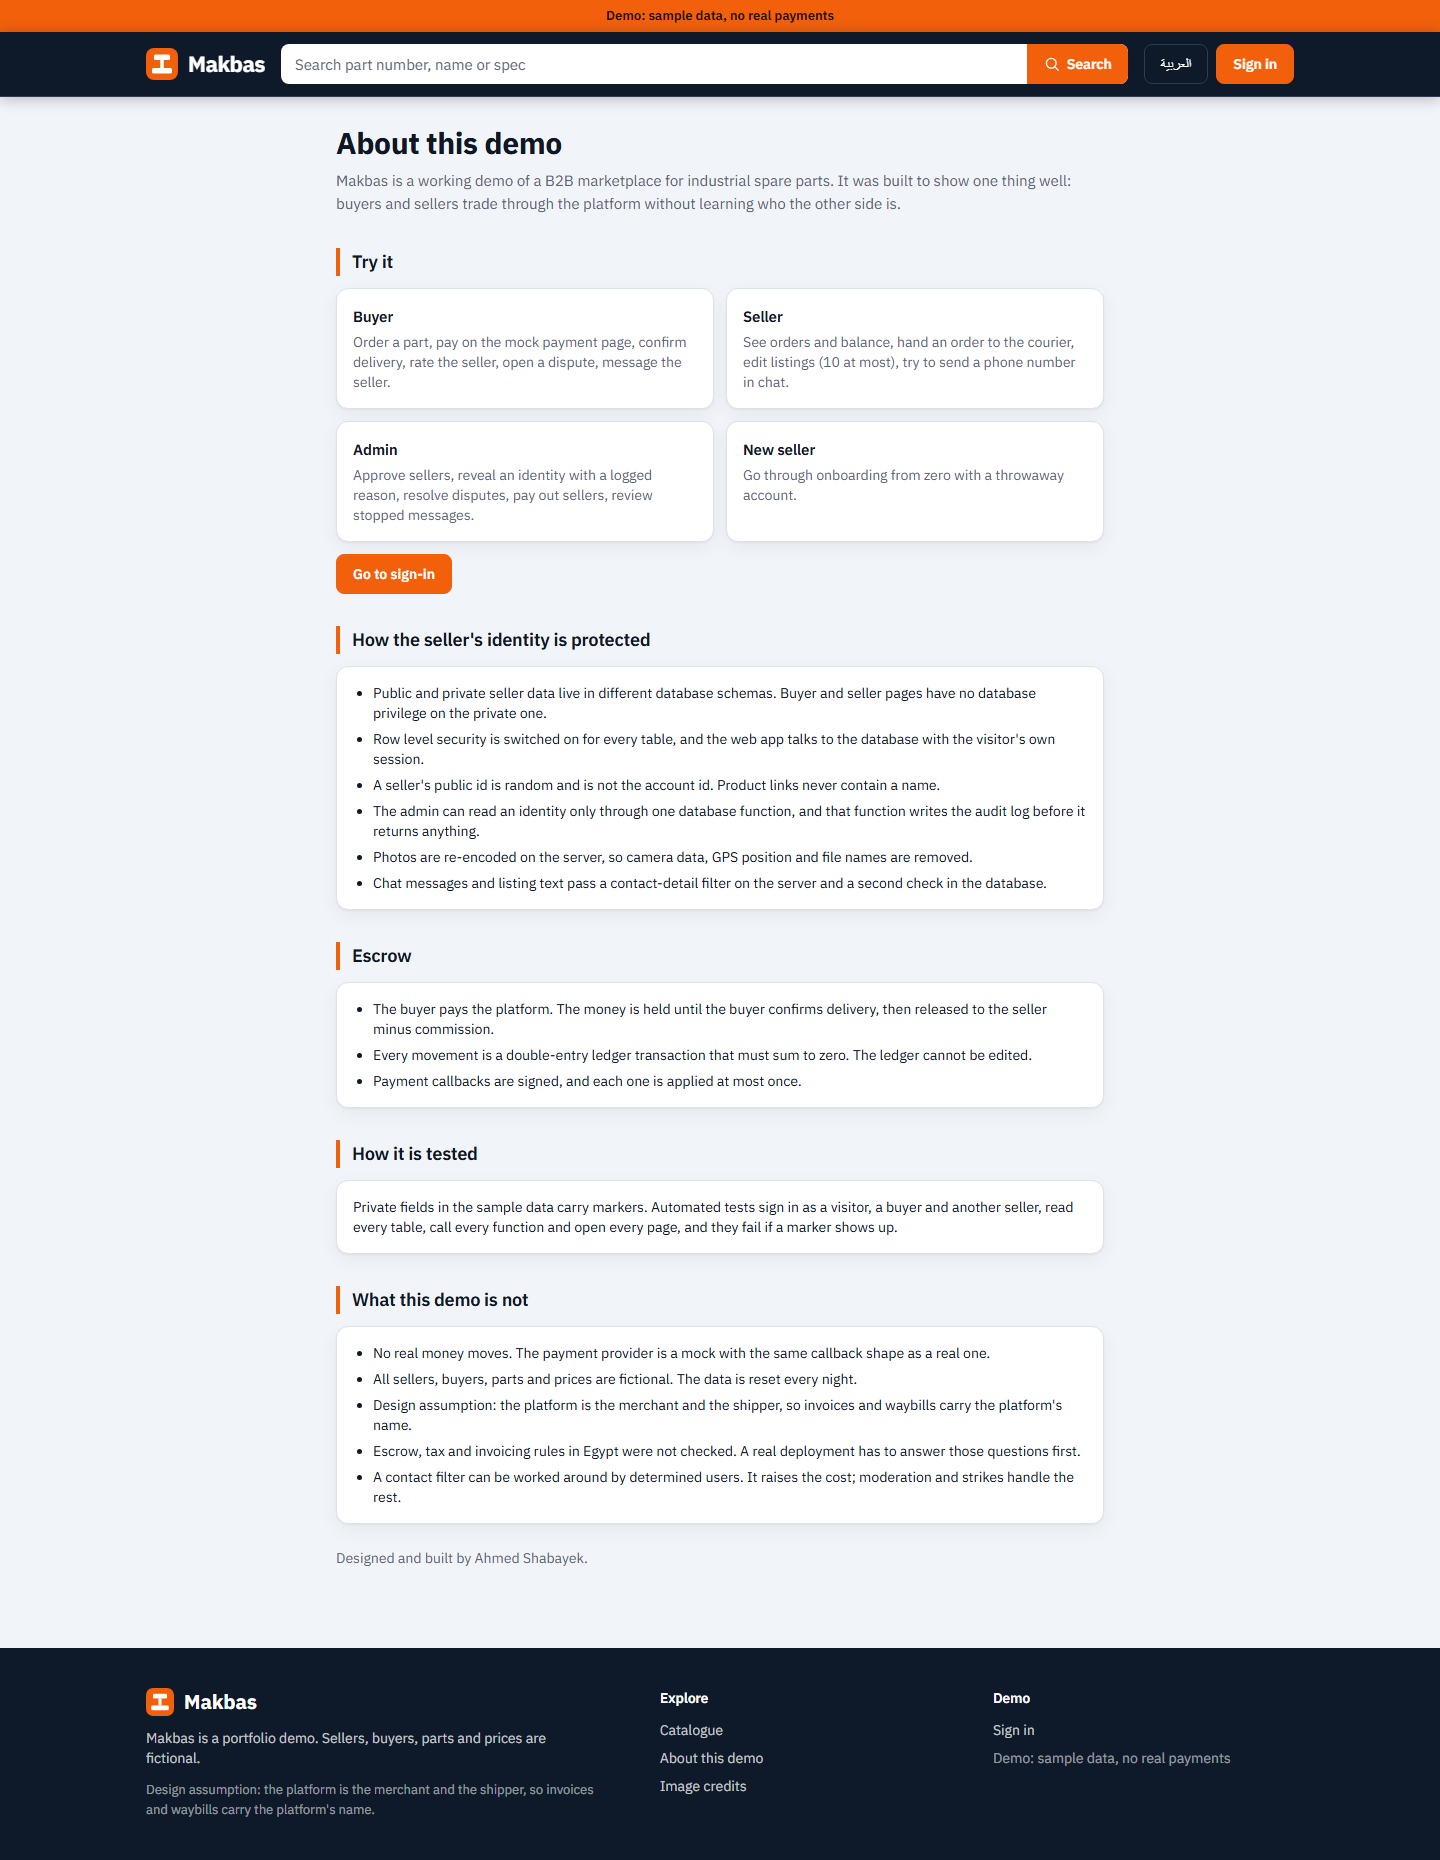
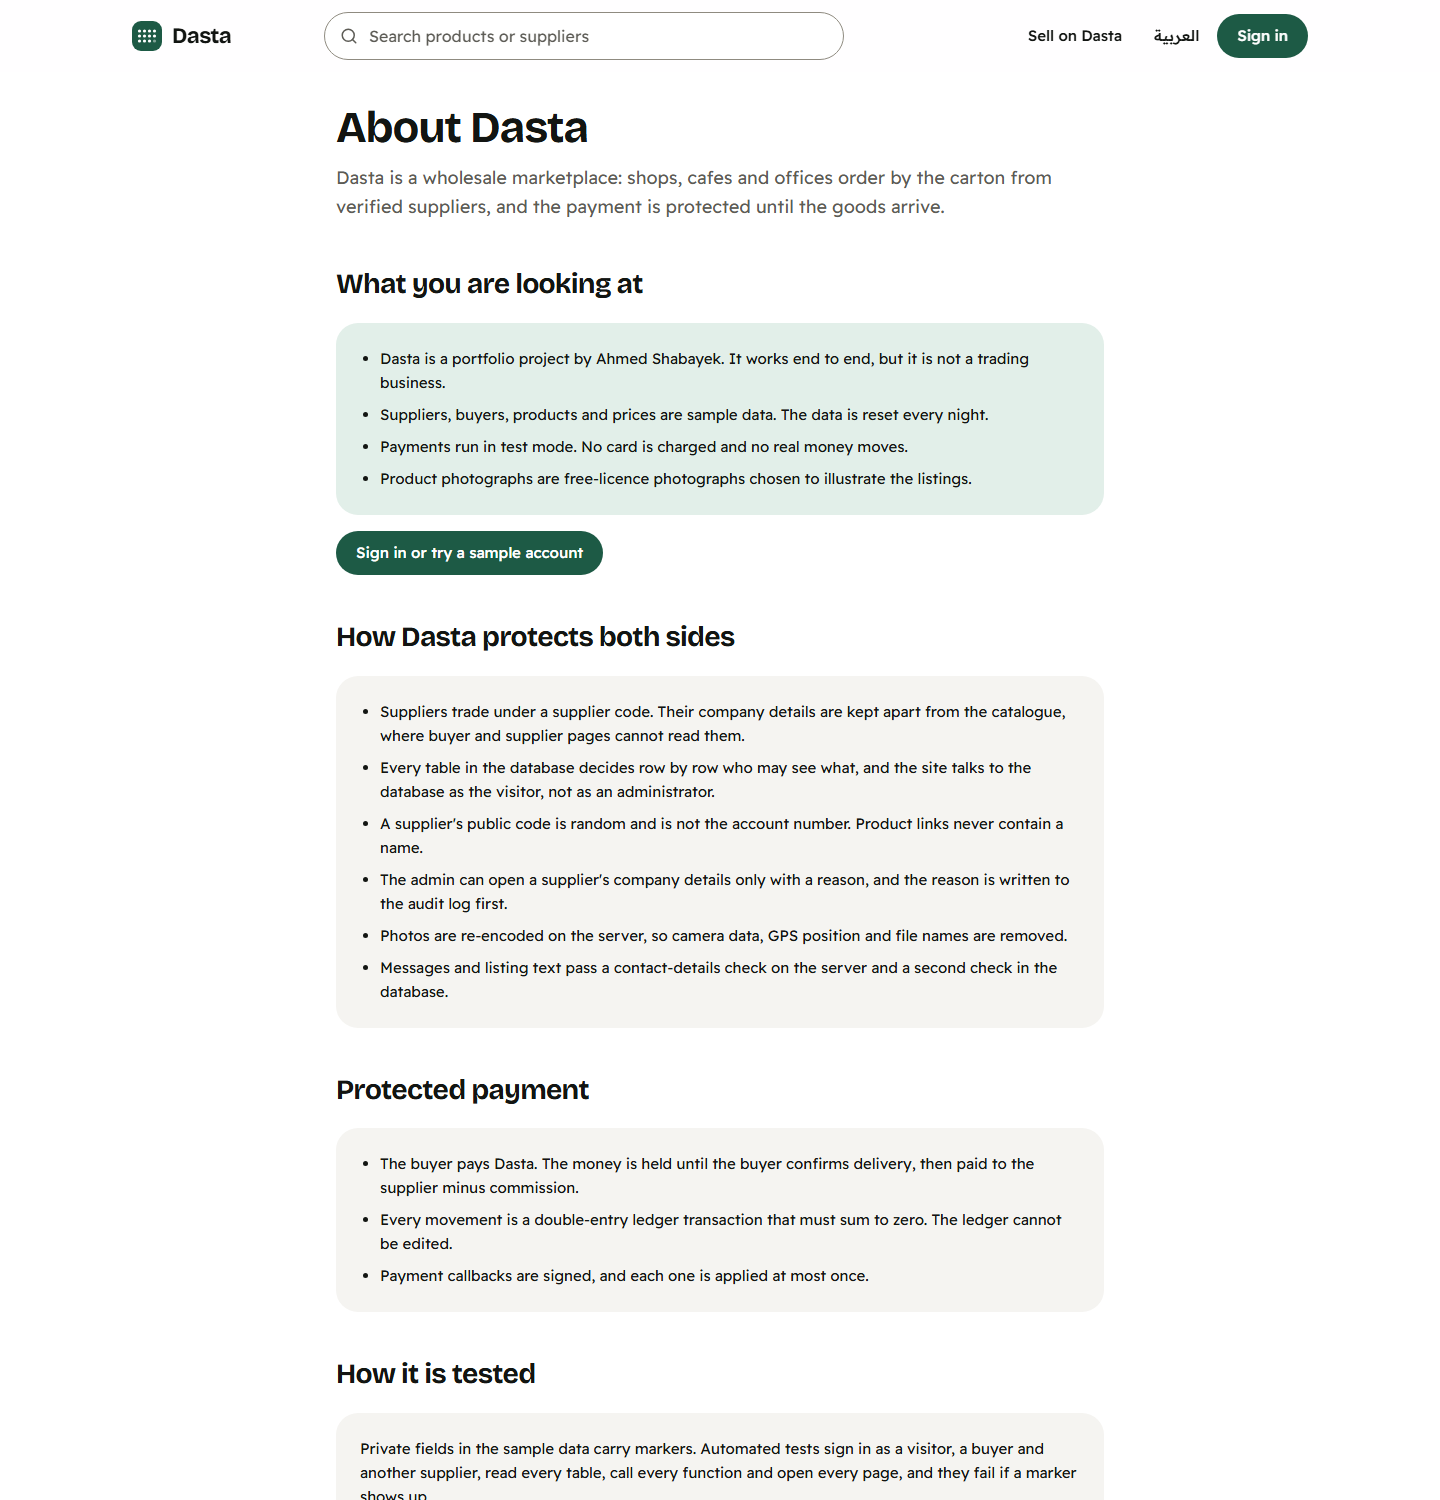
Phone entrance moves only transform and opacity; lighter hero; screenshots
- the phone opening no longer animates a clipping shape, so the main thread
  stays free while the page loads (Lighthouse LCP was 2.6-2.9 s)
- hero photograph served at quality 60 with high fetch priority
- README screenshots retaken from the live site
- leftover bordered boxes removed from the ledger, messages and listing editor
- the proxy no longer has a rule for the removed mockups

Changed region(s): [[0.0, 0.0, 1.0, 1.0]]

diff --git a/src/app/globals.css b/src/app/globals.css
@@ -260,22 +260,20 @@ body:has([data-home]) .site-footer {
 }
 
 /* Phones and touch screens: their own opening, written in CSS alone, so no animation library is
-   downloaded there. Same order: photograph, headline, supporting line, actions. */
+   downloaded there. Same order: photograph, headline, supporting line, actions. Only transform and
+   opacity move, so the browser's compositor does the work and the main thread stays free to load. */
 @media (prefers-reduced-motion: no-preference) and (max-width: 1023.98px), (prefers-reduced-motion: no-preference) and (pointer: coarse) {
-  [data-hero-media] {
-    animation: dasta-media 1.3s cubic-bezier(0.16, 1, 0.3, 1) both;
-  }
   [data-hero-img] {
     animation: dasta-settle 1.7s cubic-bezier(0.22, 1, 0.36, 1) both;
   }
   [data-hero-text] {
-    animation: dasta-uncover 1s cubic-bezier(0.16, 1, 0.3, 1) 0.25s both;
+    animation: dasta-rise 0.9s cubic-bezier(0.22, 1, 0.36, 1) 0.25s both;
   }
   [data-hero-fade] {
-    animation: dasta-rise 0.8s cubic-bezier(0.22, 1, 0.36, 1) 0.7s both;
+    animation: dasta-rise 0.8s cubic-bezier(0.22, 1, 0.36, 1) 0.6s both;
   }
   [data-hero-fade] + [data-hero-fade] {
-    animation-delay: 0.8s;
+    animation-delay: 0.7s;
   }
   /* The closing line and its action uncover once, when they scroll into view. */
   html.has-motion [data-closing-text] {
@@ -293,17 +291,9 @@ body:has([data-home]) .site-footer {
     transform: translateY(18px);
   }
 }
-@keyframes dasta-media {
-  from { clip-path: inset(9% 9% 9% 9% round 28px); }
-  to { clip-path: inset(0% 0% 0% 0% round 0px); }
-}
 @keyframes dasta-settle {
-  from { transform: scale(1.16); }
+  from { transform: scale(1.12); }
   to { transform: scale(1); }
-}
-@keyframes dasta-uncover {
-  from { clip-path: inset(0% 0% 100% 0%); transform: translateY(0.3em); }
-  to { clip-path: inset(0% 0% 0% 0%); transform: none; }
 }
 @keyframes dasta-rise {
   from { opacity: 0; transform: translateY(18px); }

diff --git a/src/app/[locale]/messages/[id]/page.tsx b/src/app/[locale]/messages/[id]/page.tsx
@@ -68,11 +68,11 @@ export default async function ThreadPage({ params, searchParams }: { params: Pro
                 {own ? c.you : m.sender === "buyer" ? t.orders.buyer : t.seller.label} · {formatDateTime(m.created_at, locale)}
               </span>
               {stopped ? (
-                <span className="mt-0.5 max-w-[85%] rounded-md border border-dashed border-danger bg-danger-bg px-3 py-1.5 text-[13px] text-danger">
+                <span className="mt-0.5 max-w-[85%] rounded-2xl bg-danger-bg px-3.5 py-2 text-sm text-danger">
                   {m.status === "held" ? c.heldOwn : c.blockedOwn}
                 </span>
               ) : (
-                <span dir="auto" className={`mt-0.5 max-w-[85%] whitespace-pre-line break-words rounded-md border px-3 py-1.5 text-sm ${own ? "border-primary bg-primary text-white" : "border-border bg-background"}`}>
+                <span dir="auto" className={`mt-0.5 max-w-[85%] whitespace-pre-line break-words rounded-2xl px-3.5 py-2 text-[15px] ${own ? "bg-primary text-primary-foreground" : "bg-background"}`}>
                   {m.body}
                 </span>
               )}

diff --git a/src/app/[locale]/page.tsx b/src/app/[locale]/page.tsx
@@ -87,7 +87,7 @@ export default async function HomePage({ params, searchParams }: { params: Promi
           {/* On a phone the photograph comes first and is cropped to the lamp; the headline follows it. */}
           <div data-hero-media className="relative order-first mx-4 mt-1 aspect-[5/4] overflow-hidden rounded-[24px] bg-[#d3cfc5] sm:mx-8 sm:aspect-[16/9] lg:order-none lg:mx-0 lg:mt-0 lg:aspect-auto lg:rounded-none lg:rounded-es-[44px]">
             <div data-hero-parallax className="absolute inset-x-0 -top-[5%] h-[110%]">
-              <Image data-hero-img src="/hero.jpg" alt="" fill preload sizes="(min-width: 1024px) 52vw, 100vw" className="object-cover object-[50%_66%] lg:object-[50%_58%]" />
+              <Image data-hero-img src="/hero.jpg" alt="" fill preload fetchPriority="high" quality={60} sizes="(min-width: 1024px) 52vw, 100vw" className="object-cover object-[50%_66%] lg:object-[50%_58%]" />
             </div>
           </div>
         </section>

diff --git a/src/app/[locale]/seller/products/[ref]/page.tsx b/src/app/[locale]/seller/products/[ref]/page.tsx
@@ -51,7 +51,7 @@ export default async function EditProductPage({ params, searchParams }: { params
             {photos.map((ph) => (
               <li key={ph.id} className="space-y-1.5">
                 {/* eslint-disable-next-line @next/next/no-img-element */}
-                <img src={imageUrl(ph.path)} alt="" className="aspect-square w-full rounded border border-border object-cover" />
+                <img src={imageUrl(ph.path)} alt="" className="aspect-square w-full rounded-2xl bg-muted object-cover" />
                 <form action={removePhoto}>
                   <input type="hidden" name="locale" value={locale} />
                   <input type="hidden" name="ref" value={product.ref} />

diff --git a/src/app/[locale]/admin/money/page.tsx b/src/app/[locale]/admin/money/page.tsx
@@ -50,7 +50,7 @@ export default async function AdminMoneyPage({ params, searchParams }: { params:
       <div className="card space-y-3" data-testid="ledger">
         <dl className="grid grid-cols-2 gap-3 sm:grid-cols-3">
           {rows.map(([label, value]) => (
-            <div key={label} className="rounded-lg border border-border border-s-4 border-s-primary bg-background/50 p-3.5">
+            <div key={label} className="rounded-2xl bg-background p-4">
               <dt className="text-[13px] font-medium text-muted-foreground">{label}</dt>
               <dd className="mt-1 text-2xl font-bold">
                 <Money piastres={value} locale={locale} />

diff --git a/src/components/reveal-form.tsx b/src/components/reveal-form.tsx
@@ -47,7 +47,7 @@ export function RevealForm({ locale, sellers, labels }: { locale: string; seller
       </form>
       {state.error ? <p className="error">{labels.errors[state.error] ?? labels.errors.generic}</p> : null}
       {state.identity ? (
-        <div className="rounded-md border border-held-bg bg-held-bg p-3" data-testid="revealed-identity">
+        <div className="rounded-2xl bg-held-bg p-4" data-testid="revealed-identity">
           <h3 className="text-sm font-semibold text-held">
             {labels.revealed} <span className="code">{state.identity.seller_code}</span>
           </h3>

diff --git a/src/proxy.ts b/src/proxy.ts
@@ -11,9 +11,6 @@ function pickLocale(header: string | null): string {
 export async function proxy(request: NextRequest) {
   const { pathname } = request.nextUrl;
 
-  // Design mockups are plain pages outside the localised app.
-  if (pathname === "/mockups" || pathname.startsWith("/mockups/")) return NextResponse.next();
-
   // 1. Every page lives under /en or /ar.
   const hasLocale = LOCALES.some((l) => pathname === `/${l}` || pathname.startsWith(`/${l}/`));
   if (!hasLocale) {

diff --git a/next.config.ts b/next.config.ts
@@ -5,6 +5,7 @@ const storageHost = process.env.NEXT_PUBLIC_SUPABASE_URL ? new URL(process.env.N
 
 const nextConfig: NextConfig = {
   images: {
+    qualities: [60, 75],
     remotePatterns: storageHost ? [{ protocol: "https", hostname: storageHost, pathname: "/storage/v1/object/public/product-images/**" }] : [],
   },
   // Every signed-in page is rendered per request. Nothing private is prerendered or shared between
